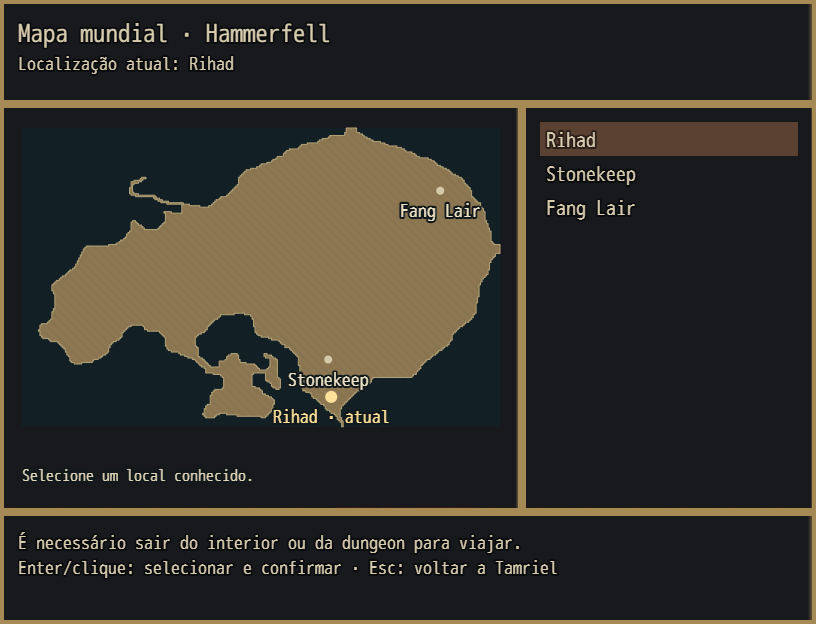
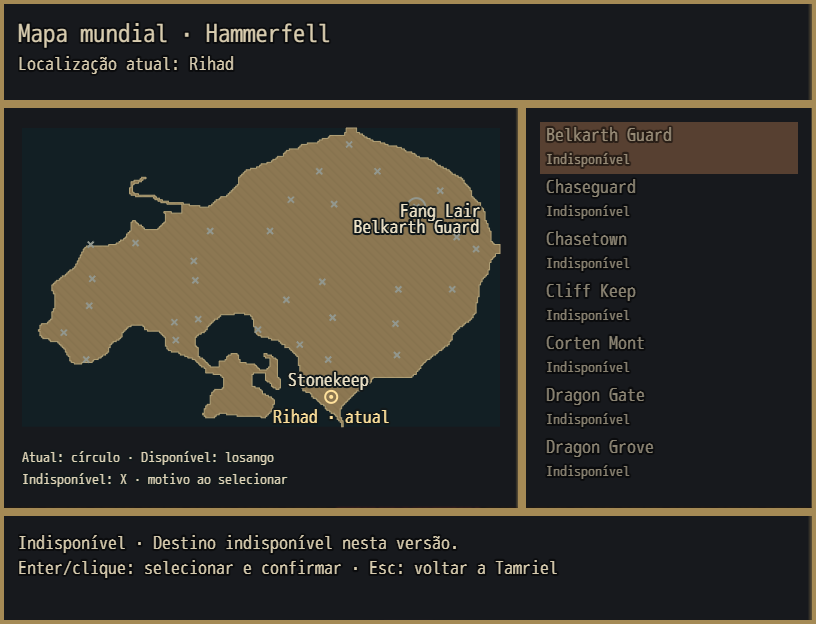
feat: identificar estados e motivos no mapa mundial

diff --git a/js/plugins/Arena_WorldMap.js b/js/plugins/Arena_WorldMap.js
@@ -1,5 +1,5 @@
 /*:
- * @plugindesc v0.2.0 Mapa mundial: províncias, descoberta e viagem exterior MQ02.
+ * @plugindesc v0.3.0 Mapa mundial: províncias, descoberta e viagem exterior MQ02.
  * @author Codex
  * @help Após Rihad, StonekeepWhole e FangCells. Dados ArenaWorldMap.json.
  * Menu Mapa mundial; tecla M fora de batalha. Enter confirma, Esc retorna.
@@ -50,6 +50,7 @@ var ArenaWorldMap,Scene_ArenaWorldMap;
   if(location()===id)return 'Você já está neste local.';
   return '';
  }
+ function destinationStatus(id){var why=reason(id,false),state=location()===id?'current':why?'blocked':'available';return {state:state,label:state==='current'?'Localização atual':state==='available'?'Disponível para viajar':'Indisponível',reason:why};}
  function fence(){
   $gameTemp.clearDestination();$gameTemp._arenaCourtTravelFence=true;
   $gameTemp._arenaNarrativeFence={until:Date.now()+180};
@@ -63,7 +64,7 @@ var ArenaWorldMap,Scene_ArenaWorldMap;
   $gamePlayer.reserveTransfer(to.mapId,to.x,to.y,to.direction,0);return {ok:true,destinationId:to.id};
  }
  ArenaWorldMap={
-  location:location,known:known,anchor:anchor,reason:reason,
+  location:location,known:known,anchor:anchor,reason:reason,status:destinationStatus,
   travel:function(id){return travel(id,false);},
   fromGate:function(i,id){
    var e=$gameMap.event(3);
@@ -74,7 +75,7 @@ var ArenaWorldMap,Scene_ArenaWorldMap;
    if(!(SceneManager._scene instanceof Scene_Map)||!SceneManager._sceneStarted||!campaign()||$gameParty.inBattle()||$gameMessage.isBusy()||$gameMap.isEventRunning()||$gamePlayer.isTransferring()||SceneManager.isSceneChanging()||$gameTemp._arenaEncounterLock)return false;
    fence();SceneManager.push(Scene_ArenaWorldMap);return true;
   },
-  entries:function(province){return cfg().places.filter(function(p){return p.province===province&&(!p.questSecret||known(p.id));}).map(function(p){return Object.assign({},p,{enabled:!reason(p.id,false)});}).sort(alphabetical);},
+  entries:function(province){return cfg().places.filter(function(p){return p.province===province&&(!p.questSecret||known(p.id));}).map(function(p){var state=destinationStatus(p.id);return Object.assign({},p,{enabled:state.state==='available',status:state.label,blockReason:state.reason});}).sort(alphabetical);},
   state:function(){return MVStateStore.read('arenaWorldTravel');}
  };
  var start=Scene_Map.prototype.start;
@@ -93,7 +94,8 @@ var ArenaWorldMap,Scene_ArenaWorldMap;
  List.prototype=Object.create(Window_Command.prototype);List.prototype.constructor=List;
  List.prototype.initialize=function(x,y,w,h){this._ww=w;this._hh=h;this.rows=[];Window_Command.prototype.initialize.call(this,x,y);};
  List.prototype.windowWidth=function(){return this._ww;};List.prototype.windowHeight=function(){return this._hh;};
- List.prototype.standardFontSize=function(){return 20;};List.prototype.itemHeight=function(){return 34;};
+ List.prototype.standardFontSize=function(){return 20;};List.prototype.itemHeight=function(){return this.rows[0]&&this.rows[0].point?52:34;};
+ List.prototype.drawItem=function(index){var row=this.rows[index],r=this.itemRectForText(index);if(!row)return;this.resetTextColor();this.changePaintOpacity(row.enabled!==false||row.id===location());if(row.id===location())this.changeTextColor('#ffe19b');this.contents.fontSize=18;this.contents.drawText(row.name,r.x,r.y,r.width,26);if(row.point){this.contents.fontSize=14;this.contents.drawText(row.status,r.x,r.y+26,r.width,22);}this.resetFontSettings();this.changePaintOpacity(true);};
  List.prototype.makeCommandList=function(){this.rows.forEach(function(r){this.addCommand(r.name,'pick',r.enabled!==false,r.id);},this);};
  List.prototype.setRows=function(rows){this.rows=rows;this.refresh();this.select(0);};
  List.prototype.processOk=function(){if(!this._ready)return;Window_Command.prototype.processOk.call(this);};
@@ -119,13 +121,13 @@ var ArenaWorldMap,Scene_ArenaWorldMap;
   points.forEach(function(p){
    var pt=view?p.point:p.label,x=rect.x+pt[0]/320*rect.w,y=rect.y+pt[1]/200*rect.h;
    var current=view?location()===p.id:(location()?p.id==='hammerfell':p.id==='imperial');
-   b.drawCircle(x,y,selection===p.id?6:3,current?'#ffe19b':selection===p.id?'#ecb474':p.enabled===false?'#727773':'#d4c8a7');
+   if(!view)b.drawCircle(x,y,selection===p.id?6:3,current?'#ffe19b':selection===p.id?'#ecb474':'#d4c8a7');else{ctx.save();ctx.strokeStyle=current?'#ffe19b':p.enabled?'#d4c8a7':'#92978e';ctx.fillStyle=ctx.strokeStyle;ctx.lineWidth=2;ctx.beginPath();if(current){ctx.arc(x,y,6,0,Math.PI*2);ctx.stroke();ctx.beginPath();ctx.arc(x,y,2,0,Math.PI*2);ctx.fill();}else if(p.enabled){ctx.moveTo(x,y-5);ctx.lineTo(x+5,y);ctx.lineTo(x,y+5);ctx.lineTo(x-5,y);ctx.closePath();ctx.fill();}else{ctx.moveTo(x-3,y-3);ctx.lineTo(x+3,y+3);ctx.moveTo(x+3,y-3);ctx.lineTo(x-3,y+3);ctx.stroke();}if(selection===p.id){ctx.beginPath();ctx.arc(x,y,9,0,Math.PI*2);ctx.stroke();}ctx.restore();b._setDirty();}
    b.fontSize=view?18:14;b.textColor=current?'#ffe19b':'#eee3c8';b.outlineWidth=4;b.outlineColor='#12191b';
    var label=p.name;if(view&&current)label+=' · atual';
    var tw=Math.min(b.width-8,b.measureTextWidth(label)+8),lx=Math.max(0,Math.min(b.width-tw,x-tw/2));
-   var showLabel=view?(selection===p.id||current||known(p.id)):(rect.w>=400||selection===p.id||current);if(showLabel)b.drawText(label,lx,y+7,tw,26,'center');this._hits.push({id:p.id,x:x,y:y,rect:showLabel?[lx,y-10,tw,44]:[x-7,y-7,14,14]});
+   var showLabel=view?(selection===p.id||rect.w>=320&&(current||known(p.id))):(rect.w>=400||selection===p.id||current),labelY=view?Math.max(rect.y,Math.min(y+7,b.height-76)):y+7;if(showLabel)b.drawText(label,lx,labelY,tw,26,'center');var hitTop=Math.min(y-10,labelY);this._hits.push({id:p.id,x:x,y:y,rect:showLabel?[lx,hitTop,tw,Math.max(y+10,labelY+26)-hitTop]:[x-7,y-7,14,14]});
   },this);
-  b.fontSize=16;b.textColor='#e0d5b9';b.drawText(view?'Locais em cinza: viagem indisponível.':'Selecione uma província.',4,b.height-32,b.width-8,26);
+  b.fontSize=14;b.textColor='#e0d5b9';if(view){b.drawText('Atual: círculo · Disponível: losango',4,b.height-48,b.width-8,22);b.drawText('Indisponível: X · motivo ao selecionar',4,b.height-26,b.width-8,22);}else b.drawText('Selecione uma província.',4,b.height-32,b.width-8,26);
  };
  MapWindow.prototype.update=function(){Window_Base.prototype.update.call(this);if(!this.visible||!this.owner||!this.owner._list.active||!this.owner._list._ready||!TouchInput.isTriggered())return;
   var x=TouchInput.x-this.x-this.padding,y=TouchInput.y-this.y-this.padding;
@@ -140,11 +142,11 @@ var ArenaWorldMap,Scene_ArenaWorldMap;
  Scene.prototype=Object.create(Scene_MenuBase.prototype);Scene.prototype.constructor=Scene;
  Scene.prototype.initialize=function(){Scene_MenuBase.prototype.initialize.call(this);this._province=null;this._selected=null;};
  Scene.prototype.create=function(){Scene_MenuBase.prototype.create.call(this);
-  var w=Graphics.boxWidth,h=Graphics.boxHeight,side=Math.min(300,Math.round(w*.36));
+  var w=Graphics.boxWidth,h=Graphics.boxHeight,side=Math.min(300,Math.round(w*.36)),footer=w<720?144:112;
   this._heading=new Window_Base(0,0,w,104);this.addWindow(this._heading);
-  this._map=new MapWindow(0,104,w-side,h-104-112);this._map.owner=this;this.addWindow(this._map);
-  this._list=new List(w-side,104,side,h-104-112);this._list.setHandler('pick',this.pick.bind(this));this._list.setHandler('cancel',this.back.bind(this));this.addWindow(this._list);
-  this._help=new Window_Base(0,h-112,w,112);this.addWindow(this._help);
+  this._map=new MapWindow(0,104,w-side,h-104-footer);this._map.owner=this;this.addWindow(this._map);
+  this._list=new List(w-side,104,side,h-104-footer);this._list.setHandler('pick',this.pick.bind(this));this._list.setHandler('cancel',this.back.bind(this));this.addWindow(this._list);
+  this._help=new Window_Base(0,h-footer,w,footer);this.addWindow(this._help);
   this._confirm=new Window_Command(0,0);this._confirm.makeCommandList=function(){this.addCommand('Viajar','travel');this.addCommand('Cancelar','cancel');};
   this._confirm.height=this._confirm.fittingHeight(2);this._confirm.createContents();this._confirm.refresh();
   this._confirm.x=Math.floor((w-this._confirm.width)/2);this._confirm.y=Math.floor((h-this._confirm.height)/2);
@@ -163,7 +165,7 @@ var ArenaWorldMap,Scene_ArenaWorldMap;
   var selected=this._list.currentExt(),b=this._heading.contents;b.clear();b.fontSize=25;b.drawText('Mapa mundial'+(this._province?' · '+cfg().provinces.find(function(p){return p.id===this._province;},this).name:' · Tamriel'),0,0,b.width,30);
   var current=cfg().places.find(function(p){return p.id===location();});b.fontSize=18;b.drawText('Localização atual: '+(current?current.name:location()==='outskirts'?'Arredores de Rihad':'Imperial Dungeons / antes de Rihad'),0,34,b.width,24);
   this._map.showMap(this._province,selected);b=this._help.contents;b.clear();b.fontSize=18;
-  var lines=this._province?(selected?[reason(selected,false)||'Viagem instantânea · sem custo, cura ou tempo adicional.','Enter/clique: selecionar e confirmar · Esc: voltar a Tamriel']:['Esta província está representada para expansão futura.','Não há locais implementados disponíveis nesta versão.']):['Mouse ou setas: selecionar · Enter: abrir província · Esc: voltar ao jogo','M: abrir o mapa durante a exploração · jogo pausado nesta tela.'];
+  var lines=this._province?(selected?[destinationStatus(selected).label+' · '+(reason(selected,false)||'Sem custo, cura ou tempo adicional.'),reason(selected,false)?'Setas/clique: consultar motivo · Esc: voltar a Tamriel':'Enter/clique: selecionar e confirmar · Esc: voltar a Tamriel']:['Esta província está representada para expansão futura.','Não há locais implementados disponíveis nesta versão.']):['Mouse ou setas: selecionar · Enter: abrir província · Esc: voltar ao jogo','M: abrir o mapa durante a exploração · jogo pausado nesta tela.'];
   var lineNo=0;lines.forEach(function(t){MVJournalModel.wrap(t,b.width-8,this._help.textWidth.bind(this._help)).forEach(function(line){b.drawText(line,0,lineNo++*25,b.width,25);});},this);
  };
  Scene.prototype.pick=function(){var id=this._list.currentExt();if(!id){SoundManager.playBuzzer();this._list.activate();return;}

diff --git a/js/plugins.js b/js/plugins.js
@@ -63,5 +63,5 @@ var $plugins =
 {"name":"Arena_Ghost","status":true,"description":"Fantasma de Fang Lair: exemplar RAM; acesso original pendente.","parameters":{}},
 {"name":"Arena_M02DungeonObjects","status":true,"description":"Atualização visual de portas e suportes do M02; estados preservados.","parameters":{}},
 {"name":"Arena_Scenery","status":true,"description":"v0.1.0 Assets confirmados de cenário M02","parameters":{}},
-{"name":"Arena_WorldMap","status":true,"description":"v0.2.0 Catálogo alfabético de Tamriel e viagem exterior de campanha","parameters":{}}
+{"name":"Arena_WorldMap","status":true,"description":"v0.3.0 Catálogo, identificação acessível e viagem de campanha","parameters":{}}
 ];

diff --git a/doc/plugins/Arena_WorldMap.md b/doc/plugins/Arena_WorldMap.md
@@ -1,4 +1,4 @@
-# Arena_WorldMap 0.2.0 — mapa mundial e viagem
+# Arena_WorldMap 0.3.0 — mapa mundial e viagem
 
 Entrega de campanha M02, runtime MV 1.6.1, navegador desktop/Chrome. Sem plugin externo ou mudança no motor. `Arena_WorldMap.js` carrega por último, após MV_StateStore, MV_JournalModel, Arena_Narrative/Continuation, Rihad/Court, StonekeepWhole e FangCells. Não requer habilitar debug.
 
@@ -57,3 +57,11 @@ Referência funcional verificada: `260ee82c58ad3da4fdbbac3c767931bc2ff3ed26`, `f
 ### Ampliação do catálogo — 20/11/2026
 
 Pedido do responsável: incluir todas as localidades e ordenar alfabeticamente, desabilitando as indisponíveis. Nomes, IDs e posições dos273 registros nomeados conferidos diretamente com CITYDATA.65; preservado o requisito anterior de sigilo de quest. Cada província externa apresenta32 cidades antes das descobertas; Imperial Province apresenta Imperial City. Marcadores indisponíveis em cinza; somente o selecionado, o local atual e destinos jogáveis mostram nomes simultâneos para evitar sobreposição. Lista com rolagem e foco mantém acesso a todos. Nenhuma cidade/dungeon nova é construída e nenhuma regra de viagem muda. [Validação focal do catálogo](../evidencias/mapa-mundial-catalogo/resultado.json), `tools/test-world-map-catalogue.cjs`; verificações anteriores de viagem/persistência seguem válidas para o serviço inalterado.
+
+### Complemento para avaliação pública — 20/11/2026
+
+Base9b6f0ad. Lista provincial com nome e estado textual por linha: **Localização atual**, **Disponível para viajar**, **Indisponível**. Mapa distingue círculo duplo atual, losango disponível e X bloqueado, além da cor; seleção tem contorno. Selecionar uma linha ou ponto exibe o motivo no rodapé, inclusive por teclado sem tentar viajar. Rodapé maior em canvas640×480 para leitura. Catálogo/ordem/sigilo mantidos. API `status(id)` fornece estado/rótulo/motivo usando a mesma validação da viagem.
+
+[Verificação das lacunas](../evidencias/mapa-mundial-publicacao/resultado.json): correspondência de257 pontos públicos/linhas em todas as províncias, clique real no último destino de cada lista, rolagem por teclado, motivos e estados, descoberta e confirmação de Stonekeep, cancelamento e janela menor. `tools/test-world-map.cjs` reutilizado e aprovado no Chrome atual: ida/volta das duas dungeons, portão comum, consulta em interiores, etapa100/retaliação, save/load inclusive durante a transferência, recursos/quest/recibos preservados. Gate: arquivos Arena_Quests/ArenaQuests/Continuation idênticos a42e36b0; mínimo2 e [evidências válidas de nível1/2, save e Rihad](../evidencias/m02-gate-nivel2/resultado.json) reutilizados, sem repetir combates.
+
+**Apresentação:** mapa vetorial é versão funcional **pendente de avaliação visual**; preservar como objetivo a fidelidade geográfica e visual ao Arena original. A simplificação atual não é aprovação de arte definitiva. Sua geração pode aguardar o feedback. Nenhum novo asset, custo, tempo, regra de quest, nível ou save foi introduzido. Publicação manual/evidência e roteiro vigentes em [PAGES_INFRA](../PAGES_INFRA.md); release somente no fechamento.

diff --git a/doc/BACKLOG_M02.md b/doc/BACKLOG_M02.md
@@ -1,6 +1,6 @@
 # Estado operacional do M02 — cobertura completa
 
-**Mapa mundial e viagem rápida — fonte funcional260ee82:** [entrega de campanha, serviço comum ao portão e roteiro](plugins/Arena_WorldMap.md). Nove províncias e273 localidades nomeadas do original, listas alfabéticas/rolagem e indisponíveis desabilitados; destinos de quest, incluindo Stonekeep/Fang Lair, mantêm sigilo até descoberta; consulta em interiores, sem bypass da retaliação. Avaliação manual/visual pendente. Viagem mantém a elipse sem custo/cura/tempo adicional; sem novas áreas ou fechamento de MQ02.
+**Mapa mundial e viagem rápida — catálogo9b6f0ad e complemento público:** [entrega de campanha, serviço comum ao portão e roteiro](plugins/Arena_WorldMap.md). Nove províncias e273 localidades nomeadas do original, listas alfabéticas/rolagem e indisponíveis desabilitados; destinos de quest, incluindo Stonekeep/Fang Lair, mantêm sigilo até descoberta; consulta em interiores, sem bypass da retaliação. Mapa vetorial funcional, pendente de avaliação visual; fidelidade geográfica/visual ao original continua objetivo, arte definitiva aguarda feedback. Estados e motivos textuais/símbolos distintos conferidos para publicação manual. Viagem mantém a elipse sem custo/cura/tempo adicional; sem novas áreas ou fechamento de MQ02.
 
 **Feedback atual:** responsável confirmou apresentação bem-sucedida da visão de Ria; [cobertura exata](VISAO_RIA_M02_03C.md). Não atribuir nova confirmação de persistência.
 

diff --git a/doc/PLUGINS.md b/doc/PLUGINS.md
@@ -1,6 +1,6 @@
 ## Mapa mundial e viagem de campanha — vigente
 
-Arena_WorldMap0.2.0 após os provedores de campanha: menu/tecla M, nove províncias e273 localidades nomeadas, listas alfabéticas, indisponíveis desabilitados e serviço comum ao portão. Destinos de quest preservam sigilo até descoberta. Consulta em interiores, sem contornar saída/Tharn. Dados vetoriais/estado versionado, namespace web preservado. [Contrato, fontes e validação](plugins/Arena_WorldMap.md).
+Arena_WorldMap0.3.0 após os provedores de campanha: menu/tecla M, nove províncias e273 localidades nomeadas, listas alfabéticas, indisponíveis desabilitados, estados/motivos textuais e símbolos distintos, serviço comum ao portão. Destinos de quest preservam sigilo até descoberta. Consulta em interiores, sem contornar saída/Tharn. Dados vetoriais/estado versionado, namespace web preservado. [Contrato, fontes e validação](plugins/Arena_WorldMap.md).
 
 ## Homem-lagarto M02 — caminhada e exemplar RAM
 
